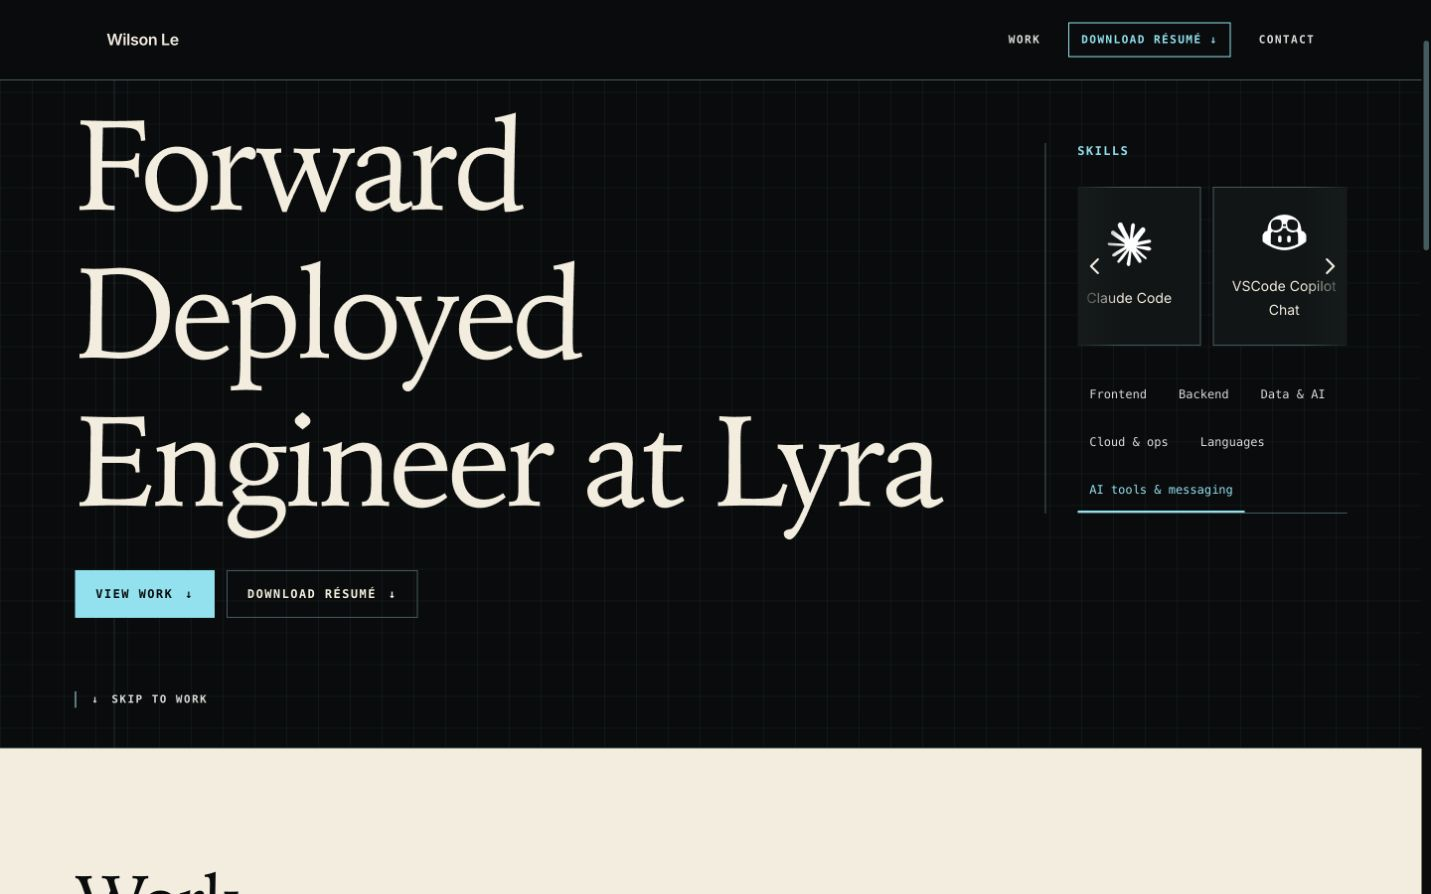
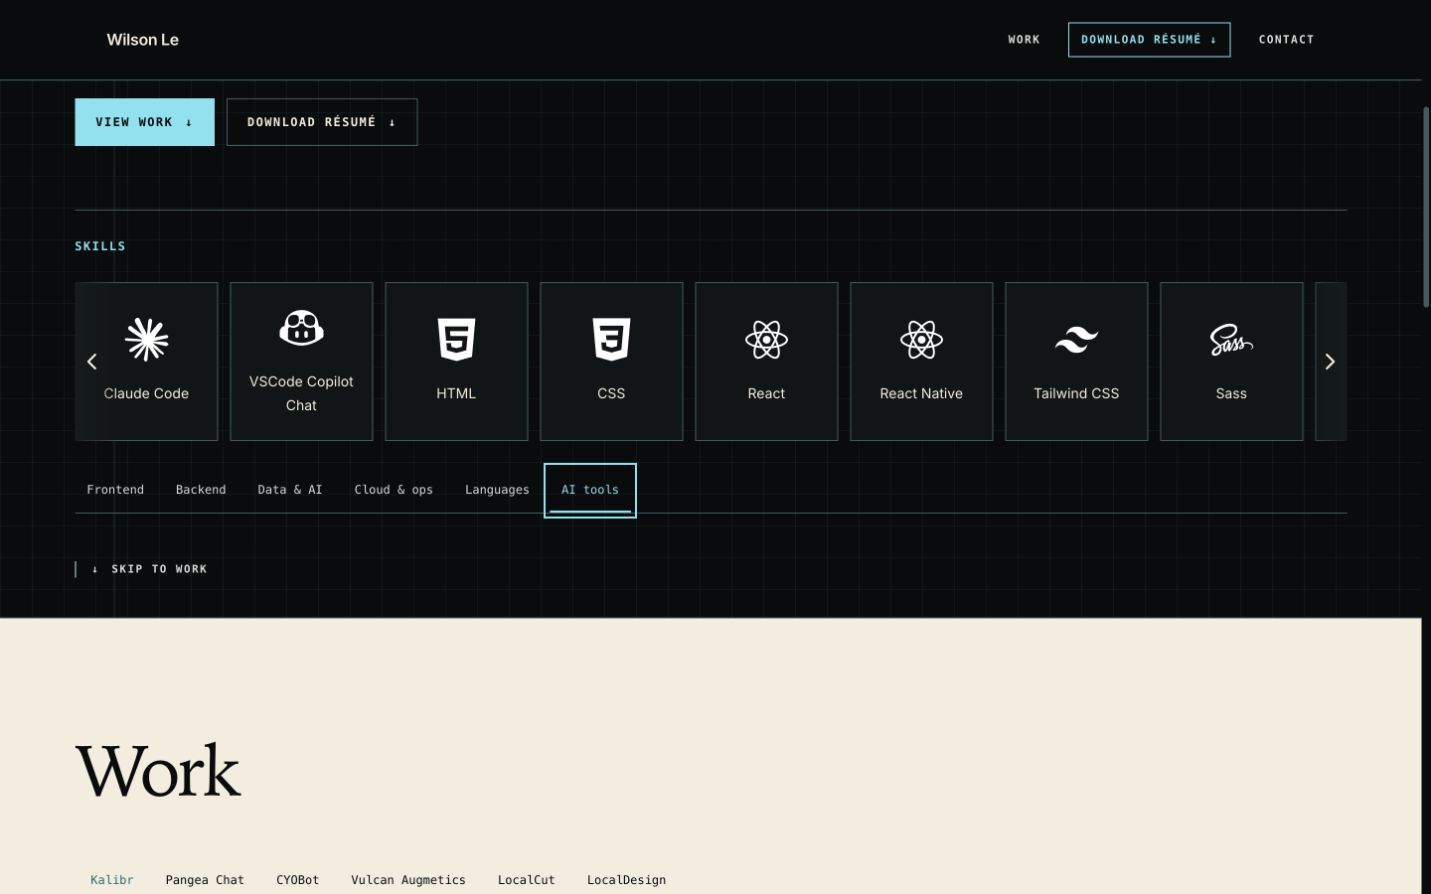
Refresh AI tools visual evidence and merge validation

diff --git a/tests/e2e/navigation.e2e.spec.ts b/tests/e2e/navigation.e2e.spec.ts
@@ -259,9 +259,10 @@ test('skips individual skills and whole sections with accessible controls and re
   await expect.poll(() => leadingSkill(page)).toBe('HTML')
   await carousel.getByRole('button', { name: 'Previous skill' }).click()
   await expect.poll(() => leadingSkill(page)).toBe('VSCode Copilot Chat')
-  await expect(
-    tabs.getByRole('tab', { name: 'AI tools', exact: true }),
-  ).toHaveAttribute('aria-selected', 'true')
+  await expect(tabs.getByRole('tab', { name: 'AI tools', exact: true })).toHaveAttribute(
+    'aria-selected',
+    'true',
+  )
   for (const [section, skill] of [
     ['Frontend', 'HTML'],
     ['Backend', 'Express.js'],

diff --git a/docs/evidence/portfolio-polish/README.md b/docs/evidence/portfolio-polish/README.md
@@ -77,7 +77,7 @@ The follow-up to issue #35 removes the desktop split entirely. Geometry checks a
 
 The right-to-left/hover regression fails on the prior implementation with a measured 48 px movement to the right over two seconds. The candidate moves approximately 120 px left in the same interval, including while hovered. Both chevrons change velocity without jumping, then ease back to 60 px/s; repeated clicks keep a single animation loop. Automatic category selection, an intermediate underline position, full-loop continuity, keyboard/touch and reduced-motion behavior, offscreen suspension and controlled visibility events are checked in the navigation suite. The underline uses fractional tab bounds so it stays aligned after wrapping and resizing. The opt-in indicator leaves Work tabs using their existing styling.
 
-Production build, lint, TypeScript and formatting pass. All 16 focused navigation and typography checks pass against the local production server on loopback port 3137. The typography checks cover all three home locales, eleven widths, fallback fonts and 200% text. This is local rendering/interaction evidence; production has not been changed. Full integration and remaining E2E checks are deferred to merge readiness.
+Production build, lint, TypeScript and formatting pass. All 16 focused navigation and typography checks pass against the local production server on loopback port 3137. The typography checks cover all three home locales, eleven widths, fallback fonts and 200% text. This is local rendering/interaction evidence; production has not been changed. Merge-readiness checks also pass: one integration test using an isolated SQLite database and all 35 frontend/navigation/typography E2E checks against the production build.
 
 Current production-build captures (13 November 2026): [commented 885 px layout](skills-motion-tablet.jpg), [mobile](skills-motion-mobile.jpg), [desktop](skills-motion-desktop.jpg). Screenshots establish appearance; the timed browser checks establish motion and interaction.
 
